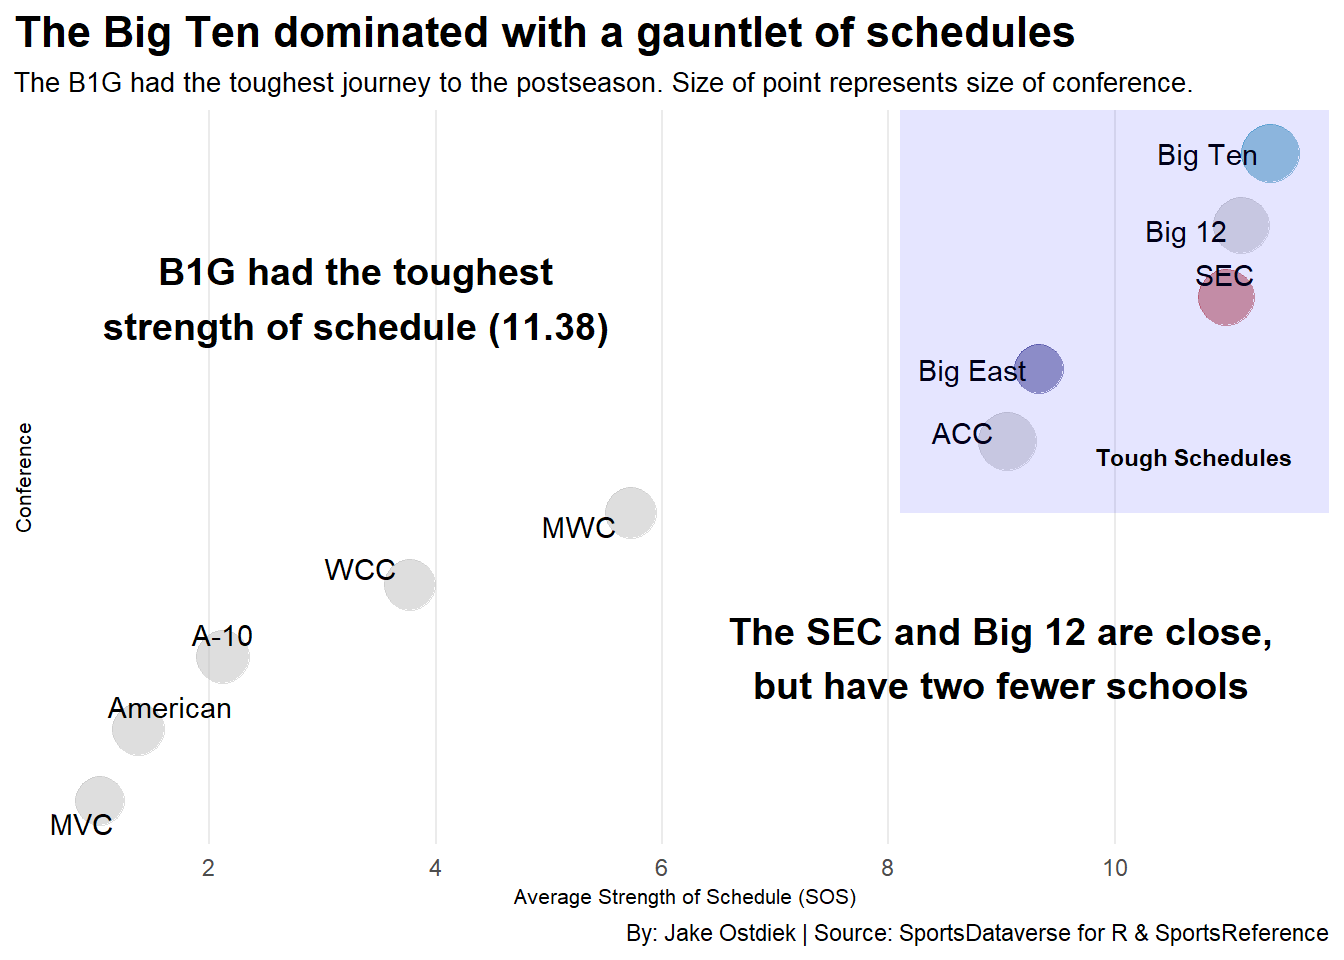
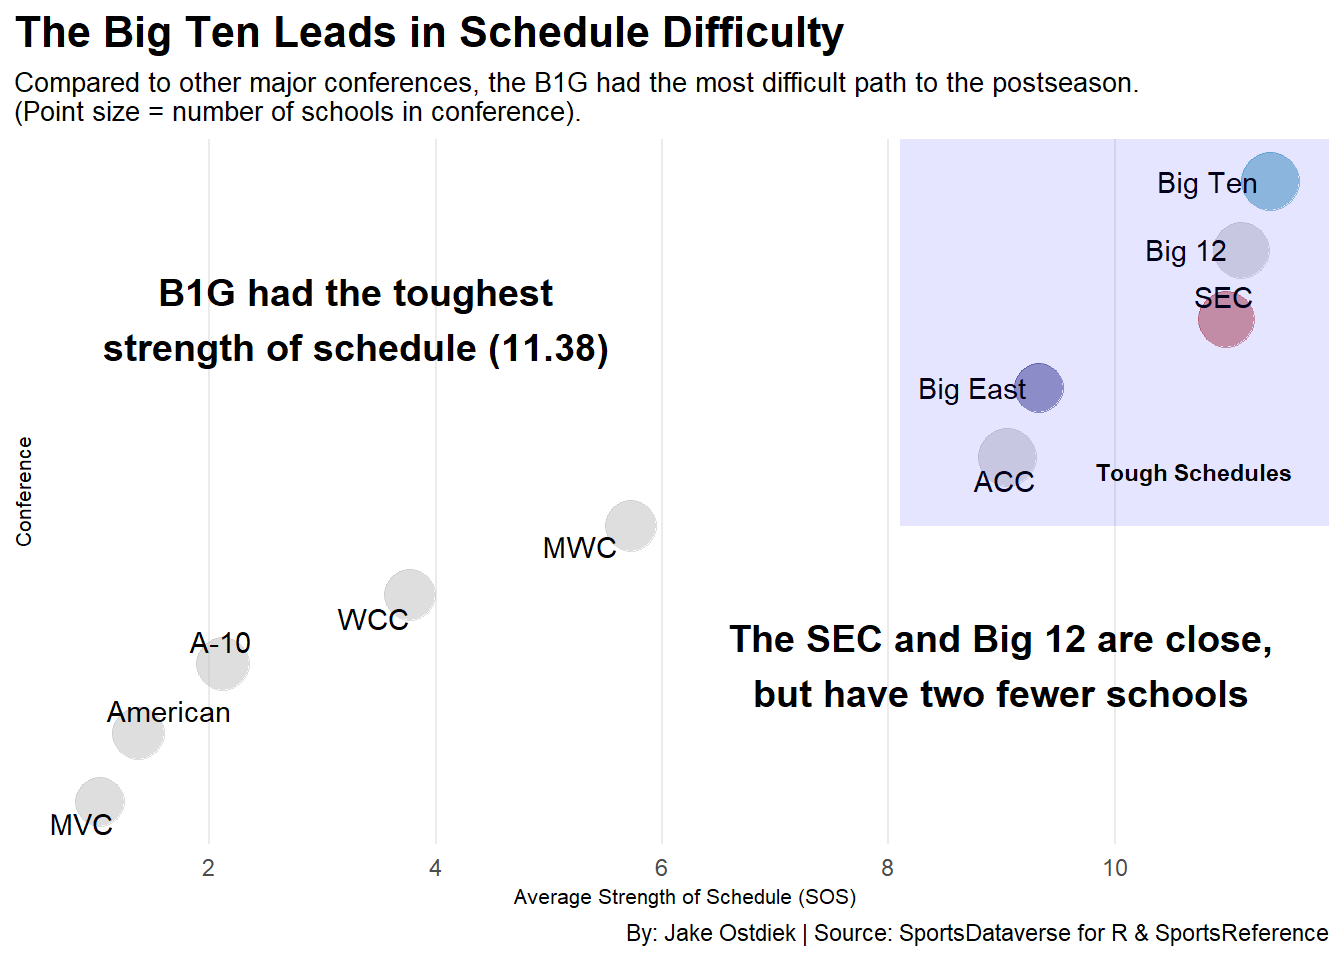
final touches

diff --git a/posts/big-ten-basketball-success-2026/index.html b/posts/big-ten-basketball-success-2026/index.html
@@ -362,7 +362,7 @@ pre > code.sourceCode > span > a:first-child::before { text-decoration: underlin
 
 
 
-<p>Every March the same debate dominates the college sports scene, which conference is truly the best? The Big 12 consistently has a gauntlet of a regular season, and the SEC prides itself on having top tier athletes, but these narratives don’t win championships. When you take away the loud, often misleading, voices and take a look at the numbers from the 2025-2026 season, reality shows its true colors. The Big Ten didn’t just participate in this historic season, they dominated it.</p>
+<p>Every March, the same debate controls the college sports scene, which conference is truly the best? The Big 12 consistently has a challenging regular season, and the SEC prides itself on having top tier athletes, but these narratives don’t win championships. When you take away the loud, often misleading, voices and take a look at the numbers from the 2025-2026 season, reality shows its true colors. The Big Ten didn’t just participate in this historic season, they dominated it.</p>
 <p>The Big Ten set a completely new standard this year, proving they were better than the SEC, the Big 12, and everyone else contending for the title.</p>
 <p>The Non-Conference Start: Winning by Margins</p>
 <div class="cell">
@@ -483,8 +483,8 @@ pre > code.sourceCode > span > a:first-child::before { text-decoration: underlin
 </div>
 </div>
 <p>To find the true strength of a conference, you have to first look at the non-conference competition that starts off every season. As soon as January hits, conference rivals go at it, dragging down overall conference metrics. But in the non-conference slate? That is where you see what each conference is really made of.</p>
-<p>When we look at all games played before January 1st, 2026 (Average start date for conference games), the Big Ten teases its dominance.</p>
-<p>The data reveals a consistent trend - The Big Ten wasn’t just winning games, they were dismantling defenses and locking down offenses. Looking at the average scoring differentials, the Big Ten separated itself from the pack early. While other conferences hovered near the baseline of “just okay”, the Big Ten consistently was outscoring their opponents by significant margins. This established a level of dominance before conference play was even a worry.</p>
+<p>When we look at all games played before January 1st, 2026 (Average start date for conference games), the Big Ten teases its superiority.</p>
+<p>The data reveals a consistent trend. The Big Ten wasn’t just winning games, they were tearing through defenses and locking down offenses. Looking at the average scoring differentials, the Big Ten separated itself from the pack early on. While other conferences hovered near the baseline of “just okay”, the Big Ten consistently was outscoring their opponents by significant margins. This established a level of dominance before conference play was even a worry.</p>
 <p>The Test of Resilience: Strength of Schedule</p>
 <div class="cell">
 <details class="code-fold">
@@ -560,8 +560,8 @@ pre > code.sourceCode > span > a:first-child::before { text-decoration: underlin
 <span id="cb2-69"><a href="#cb2-69" aria-hidden="true" tabindex="-1"></a>  <span class="fu">geom_text</span>(</span>
 <span id="cb2-70"><a href="#cb2-70" aria-hidden="true" tabindex="-1"></a>    <span class="fu">aes</span>(<span class="at">x=</span><span class="dv">9</span>, <span class="at">y=</span><span class="dv">3</span>, <span class="at">label=</span><span class="st">"The SEC and Big 12 are close,</span><span class="sc">\n</span><span class="st">but have two fewer schools"</span>, <span class="at">size =</span> <span class="dv">4</span>, <span class="at">fontface =</span> <span class="st">"bold"</span>)) <span class="sc">+</span></span>
 <span id="cb2-71"><a href="#cb2-71" aria-hidden="true" tabindex="-1"></a>  <span class="fu">labs</span>(</span>
-<span id="cb2-72"><a href="#cb2-72" aria-hidden="true" tabindex="-1"></a>    <span class="at">title=</span><span class="st">"The Big Ten dominated with a gauntlet of schedules"</span>,</span>
-<span id="cb2-73"><a href="#cb2-73" aria-hidden="true" tabindex="-1"></a>    <span class="at">subtitle=</span><span class="st">"The B1G had the toughest journey to the postseason. Size of point represents size of conference."</span>,</span>
+<span id="cb2-72"><a href="#cb2-72" aria-hidden="true" tabindex="-1"></a>    <span class="at">title=</span><span class="st">"The Big Ten Leads in Schedule Difficulty"</span>,</span>
+<span id="cb2-73"><a href="#cb2-73" aria-hidden="true" tabindex="-1"></a>    <span class="at">subtitle=</span><span class="st">"Compared to other major conferences, the B1G had the most difficult path to the postseason.</span><span class="sc">\n</span><span class="st">(Point size = number of schools in conference)."</span>,</span>
 <span id="cb2-74"><a href="#cb2-74" aria-hidden="true" tabindex="-1"></a>    <span class="at">x=</span><span class="st">"Average Strength of Schedule (SOS)"</span>,</span>
 <span id="cb2-75"><a href="#cb2-75" aria-hidden="true" tabindex="-1"></a>    <span class="at">y=</span><span class="st">"Conference"</span>,</span>
 <span id="cb2-76"><a href="#cb2-76" aria-hidden="true" tabindex="-1"></a>    <span class="at">caption =</span> <span class="st">"By: Jake Ostdiek | Source: SportsDataverse for R &amp; SportsReference"</span></span>
@@ -587,11 +587,11 @@ pre > code.sourceCode > span > a:first-child::before { text-decoration: underlin
 </div>
 <p>The immediate counterargument for non-conference blowouts usually sounds like this, “Oh yeah, name one tough opponent you’ve played.” That’s fair to ask of someone prideful in their conference. Padding the stat sheet against mid-majors before the new year has become something of a college basketball tradition.</p>
 <p>But the Big Ten wasn’t hiding from anyone.</p>
-<p>When mapping the average Strength of Schedule (SOS) across the top conferences, the Big Ten stands its ground at the top. They didn’t just rack up high point differentials against non-conference teams, they did it against the toughest competition in the country as well. This wasn’t the product of a few outstanding teams carrying the rest of the conference either. From top to bottom, the conference was ruthless, ensuring any team that came out of the Big Ten regular season was battle-tested and ready for a fight.</p>
-<p>The SEC and Big 12 would argue they are right up there with the Big Ten, but in reality, those two conferences both have 16 teams while the Big Ten has 18. With two additional teams, a strong average strength of schedule becomes even tougher to maintain. More teams leads to more competition, and where some conferences struggle with their level of competition, the Big Ten took it in stride to continue elevating their performance.</p>
-<p>Regular season metrics are great, but the NCAA Tournament is a lie detector test disguised as college basketball tournament. If a conference is truly the best, it has to be able to continue their regular-season hype into reaffirming tournament success.</p>
-<p>To measure this, we don’t just look at how many bids a conference received, we look at efficiency. How successfully did a conference’s total number of teams survive from round to round?</p>
+<p>When mapping the average Strength of Schedule (SOS) across the top conferences, the Big Ten stands its ground at the top. They didn’t just rack up high point differentials against non-conference teams, they did it against the toughest competition in the country as well. This wasn’t made possible by a few outstanding teams carrying the rest of the conference either. From top to bottom, the conference was tough enough to push through, ensuring any team that came out of the Big Ten regular season was battle-tested and ready for a fight.</p>
+<p>The SEC and Big 12 would argue they are right up there with the Big Ten, but in reality, those two conferences both have 16 teams while the Big Ten has 18. With two additional teams, a strong average strength of schedule becomes even tougher to maintain. With more teams, there will be more competition, and where some conferences struggle with their level of competition, the Big Ten took it in stride to continue elevating their performance.</p>
 <p>The Ultimate Test: March Madness</p>
+<p>Regular season metrics are great, but the NCAA Tournament is a lie detector test disguised as a college basketball tournament. If a conference is truly the best, it has to be able to continue their regular-season hype into notable tournament success.</p>
+<p>To measure this, we don’t just look at how many bids a conference received, we look at efficiency. How successfully did a conference’s total number of teams survive from round to round?</p>
 <div class="cell">
 <details class="code-fold">
 <summary>Code</summary>
@@ -811,10 +811,12 @@ pre > code.sourceCode > span > a:first-child::before { text-decoration: underlin
 <span id="cb3-214"><a href="#cb3-214" aria-hidden="true" tabindex="-1"></a></span>
 <span id="cb3-215"><a href="#cb3-215" aria-hidden="true" tabindex="-1"></a>(conv1 <span class="sc">|</span> conv2) <span class="sc">/</span> (conv3 <span class="sc">|</span> conv4) <span class="sc">+</span></span>
 <span id="cb3-216"><a href="#cb3-216" aria-hidden="true" tabindex="-1"></a>  <span class="fu">plot_annotation</span>(</span>
-<span id="cb3-217"><a href="#cb3-217" aria-hidden="true" tabindex="-1"></a>    <span class="at">title =</span> <span class="st">"Tournament Conversion Rates by Conference"</span>,</span>
-<span id="cb3-218"><a href="#cb3-218" aria-hidden="true" tabindex="-1"></a>    <span class="at">caption =</span> <span class="st">"By: Jake Ostdiek | Source: SportsDataverse for R &amp; SportsReference"</span>,</span>
-<span id="cb3-219"><a href="#cb3-219" aria-hidden="true" tabindex="-1"></a>    <span class="at">theme =</span> <span class="fu">theme</span>(<span class="at">plot.title =</span> <span class="fu">element_text</span>(<span class="at">size =</span> <span class="dv">18</span>, <span class="at">face =</span> <span class="st">"bold"</span>, <span class="at">hjust =</span> <span class="fl">0.5</span>))</span>
-<span id="cb3-220"><a href="#cb3-220" aria-hidden="true" tabindex="-1"></a>  )</span></code></pre></div><button title="Copy to Clipboard" class="code-copy-button"><i class="bi"></i></button></div>
+<span id="cb3-217"><a href="#cb3-217" aria-hidden="true" tabindex="-1"></a>    <span class="at">title =</span> <span class="st">"The Big Ten Had the Best Overall Conversion Rates"</span>,</span>
+<span id="cb3-218"><a href="#cb3-218" aria-hidden="true" tabindex="-1"></a>    <span class="at">subtitle =</span> <span class="st">"The conference never dropped below a 50% advancement rate at any stage.</span><span class="sc">\n</span><span class="st">(Percentages = round-to-round win rate)."</span>,</span>
+<span id="cb3-219"><a href="#cb3-219" aria-hidden="true" tabindex="-1"></a>    <span class="at">caption =</span> <span class="st">"By: Jake Ostdiek | Source: SportsDataverse for R &amp; SportsReference"</span>,</span>
+<span id="cb3-220"><a href="#cb3-220" aria-hidden="true" tabindex="-1"></a>    <span class="at">theme =</span> <span class="fu">theme</span>(</span>
+<span id="cb3-221"><a href="#cb3-221" aria-hidden="true" tabindex="-1"></a>      <span class="at">plot.title =</span> <span class="fu">element_text</span>(<span class="at">size =</span> <span class="dv">18</span>, <span class="at">face =</span> <span class="st">"bold"</span>))</span>
+<span id="cb3-222"><a href="#cb3-222" aria-hidden="true" tabindex="-1"></a>  )</span></code></pre></div><button title="Copy to Clipboard" class="code-copy-button"><i class="bi"></i></button></div>
 </details>
 <div class="cell-output-display">
 <div>
@@ -824,11 +826,11 @@ pre > code.sourceCode > span > a:first-child::before { text-decoration: underlin
 </div>
 </div>
 </div>
-<p>The conversion rates and number of teams advanced tells the final, undeniable piece of the story. While the SEC, Big 12 and others saw their representation fall off in the opening weekend, the Big Ten stayed true to what they knew, and won. From the Round of 64 to the Sweet 16, the Big Ten advanced 66.67% of their teams successfully while the SEC advanced 40% and the Big 12 advanced 37.5%. The Big Ten added a cherry on top and broke a conference record for number of teams that advanced to the Sweet 16, with 6 teams advancing (previously 4).</p>
-<p>The success doesn’t stop there. From the Sweet 16 to the Elite Eight, the Big Ten was the only conference to advance more than one team to the Elite Eight, and they advanced four, breaking yet another conference record for number of teams in the Elite Eight (previously three). The high percentage of Big Ten teams surviving the early rounds of chaos proves that their regular season metrics weren’t by chance. They were prepared for the battlefield that is March Madness because their entire season trained to show up when it mattered most.</p>
+<p>The conversion rates and number of teams advanced tells the final, undeniable piece of the story. While the SEC, Big 12, and others saw their representation fall off in the opening weekend, the Big Ten stayed true to what they knew, and won. From the Round of 64 to the Sweet 16, the Big Ten advanced 66.67% of their teams successfully while the SEC advanced 40% and the Big 12 advanced 37.5%. The Big Ten added a cherry on top and broke a conference record for number of teams that advanced to the Sweet 16, with 6 teams advancing (previously 4).</p>
+<p>The success doesn’t stop there. From the Sweet 16 to the Elite Eight, the Big Ten was the only conference to advance more than one team, and they advanced four, breaking yet another conference record for number of teams in the Elite Eight (previously three). The high percentage of Big Ten teams surviving the early rounds of chaos proves that their regular season metrics weren’t by chance. They were prepared for the battlefield that is March Madness, because their entire season trained them to show up when it mattered most.</p>
 <p>The Big Ten’s Final Statement: The Championship</p>
 <p>You can have the best point differentials and the highest SOS, but without a banner to raise, the argument quickly falls apart. The Big Ten answered that with an exclamation point, with Michigan ultimately cutting down the nets to win it all.</p>
-<p>The 2025-2026 season wasn’t up to debate. From the opening tip-off of the non-conference schedule to the final buzzer of the National Championship game, the data tells the exact same story basketball enjoyers watched all season. The Big Ten is the king of college basketball.</p>
+<p>The 2025-2026 season wasn’t up for debate. From the opening tip-off of the non-conference schedule, to the final buzzer of the National Championship game, the data tells the exact same story basketball fans watched all season. The Big Ten is the king of college basketball.</p>
 
 
 

diff --git a/index.html b/index.html
@@ -376,7 +376,7 @@ window.Quarto = {
 
 <div class="quarto-listing quarto-listing-container-default" id="listing-listing">
 <div class="list quarto-listing-default">
-<div class="quarto-post image-right" data-index="0" data-categories="bmNhYSUyQ2Jhc2tldGJhbGwlMkNiaWd0ZW4=" data-listing-date-sort="1775797200000" data-listing-file-modified-sort="1775785737041" data-listing-date-modified-sort="NaN" data-listing-reading-time-sort="16" data-listing-word-count-sort="3027">
+<div class="quarto-post image-right" data-index="0" data-categories="bmNhYSUyQ2Jhc2tldGJhbGwlMkNiaWd0ZW4=" data-listing-date-sort="1775797200000" data-listing-file-modified-sort="1775837219634" data-listing-date-modified-sort="NaN" data-listing-reading-time-sort="16" data-listing-word-count-sort="3062">
 <div class="thumbnail"><a href="./posts/big-ten-basketball-success-2026/index.html" class="no-external">
 
 <img loading="lazy" src="./posts/big-ten-basketball-success-2026/image.png" class="thumbnail-image">
@@ -396,7 +396,7 @@ window.Quarto = {
 
 </div>
 <div class="delink listing-description"><a href="./posts/big-ten-basketball-success-2026/index.html" class="no-external">
-Every March the same debate dominates the college sports scene, which conference is truly the best? The Big 12 consistently has a gauntlet of a regular season, and the SEC…
+Every March, the same debate controls the college sports scene, which conference is truly the best? The Big 12 consistently has a challenging regular season, and the SEC…
 </a></div>
 </div>
 <div class="metadata">
